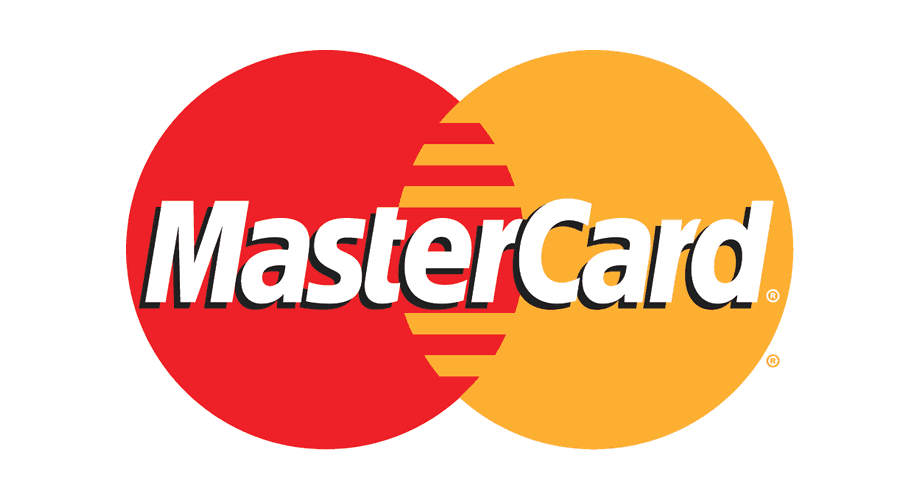
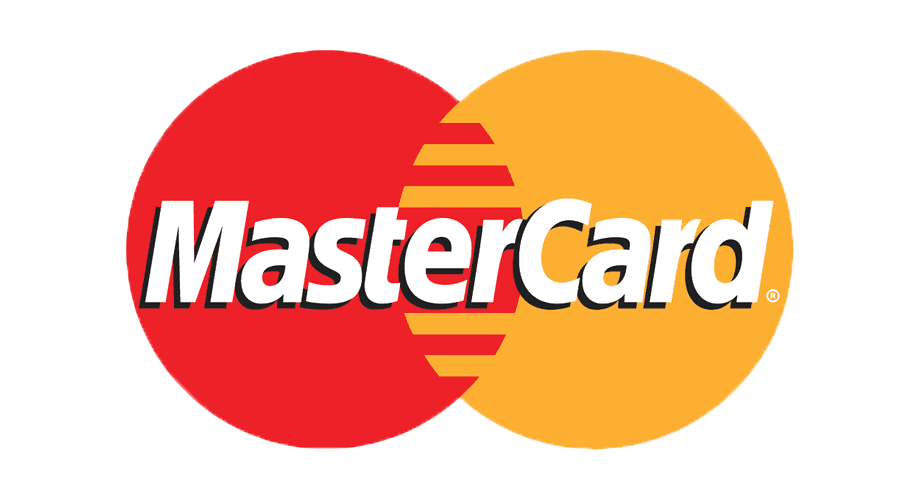
added transparency to white areas in CC, MC, VC and moved css

diff --git a/Documents/NetBeansProjects/IoTBay001/web/css/navbar.css b/Documents/NetBeansProjects/IoTBay001/web/css/navbar.css
@@ -1,0 +1,50 @@
+body {margin:0;}
+
+ul {
+    list-style-type: none;
+    margin: 0;
+    padding: 0 15%;
+    overflow: hidden;
+    background-color: #f5f5f5;
+    /* position: fixed; */
+    top: 0;
+    width: 100%;
+}
+
+li {
+    float: left;
+
+}
+
+li a {
+    display: block;
+    color: #000;
+    text-align: center;
+    padding: 14px 16px;
+    text-decoration: none;
+    font-size: 2rem;
+}
+
+li a:hover:not(.active) {
+    background-color: #70eeff;
+}
+
+.active {
+    background-color: #70eeff;
+    color: #fff;
+    font-weight: bold;
+}
+
+.logout {
+    float: right;
+}
+
+.order-content {
+    display: none;
+}
+
+.order-dropdown:hover .order-content {
+    display: block;
+    position: absolute !important;
+    z-index: 1;
+}
